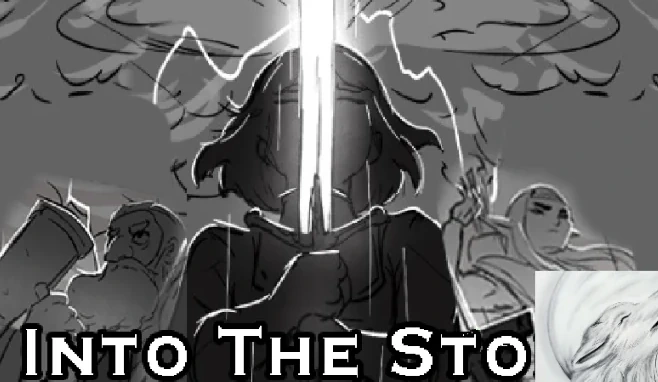
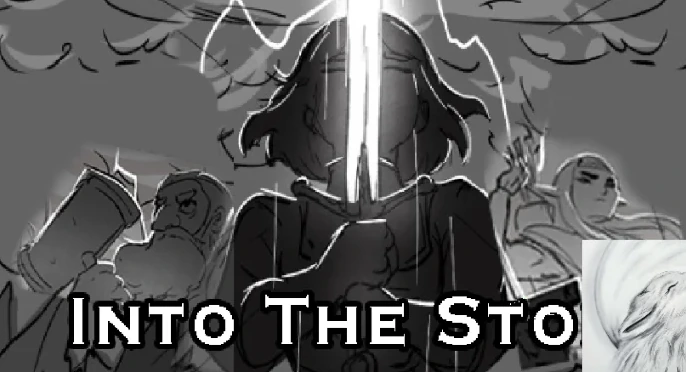
Actually bake pan into the sketch asset (previous crop was a no-op)
The prior its-art-proposed-compare.webp preserved the original aspect
ratio, which does nothing: object-fit:cover's slack depends only on
the ratio between image and box, not on absolute pixel size, so a
same-ratio crop can never create pan headroom in both axes at once.
Verified analytically that the approved translate(4.3%, -6.4%) at
scale(1) requires source pixels ~33px past the sketch's left edge and
~12px past its bottom edge -- pixels that don't exist, so no crop of
the existing art could ever satisfy it without fabricating content.

This crop instead computes the exact rectangle (in original-image
pixels) that scale(1.16)-equivalent framing shows, and crops precisely
that -- a flat image already at the frame's exact aspect ratio. No CSS
transform needed at all now; object-fit:cover just displays it as-is.

diff --git a/assets/styles.css b/assets/styles.css
@@ -3046,9 +3046,6 @@ img { max-width: 100%; display: block; }
   -webkit-user-drag: none;
 }
 
-.its-compare__img--sketch {
-  transform: translate(4.3%, -6.4%);
-}
 
 .its-compare__handle {
   position: absolute;
